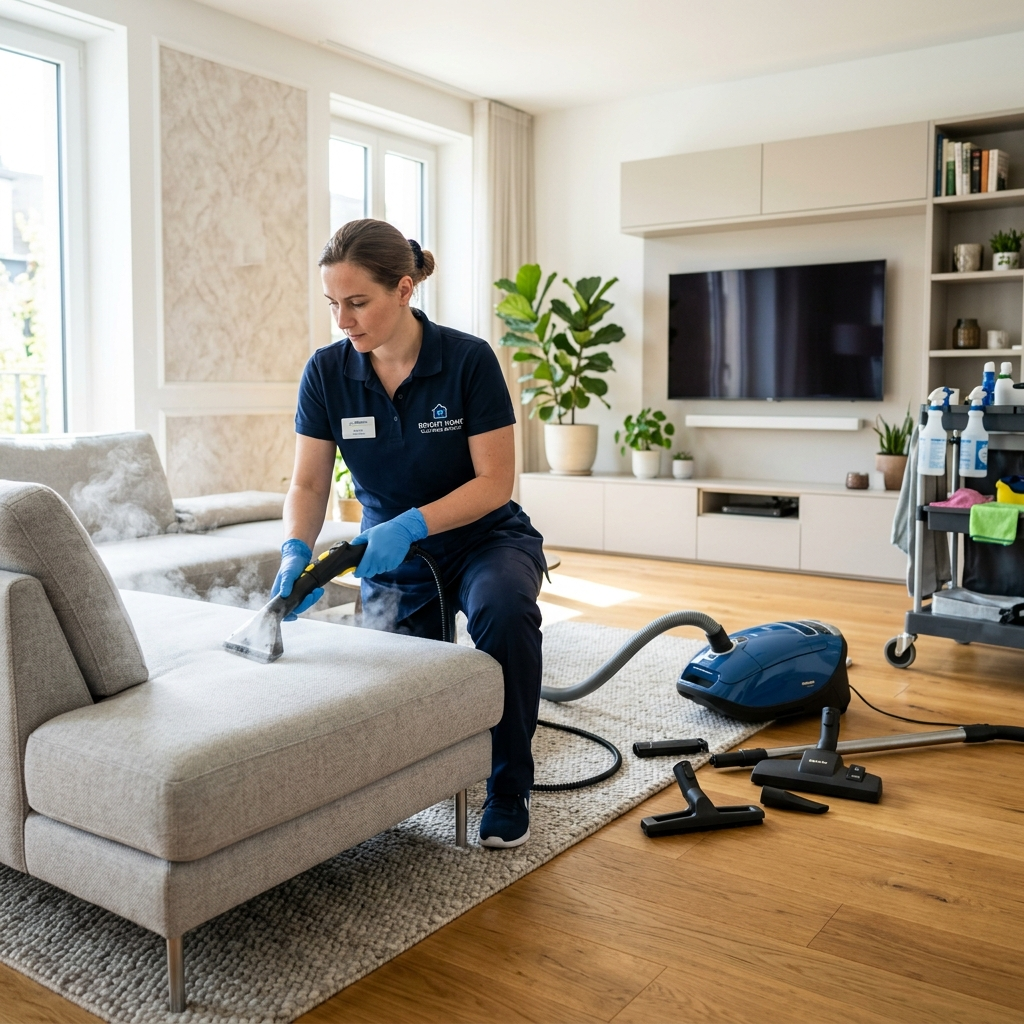
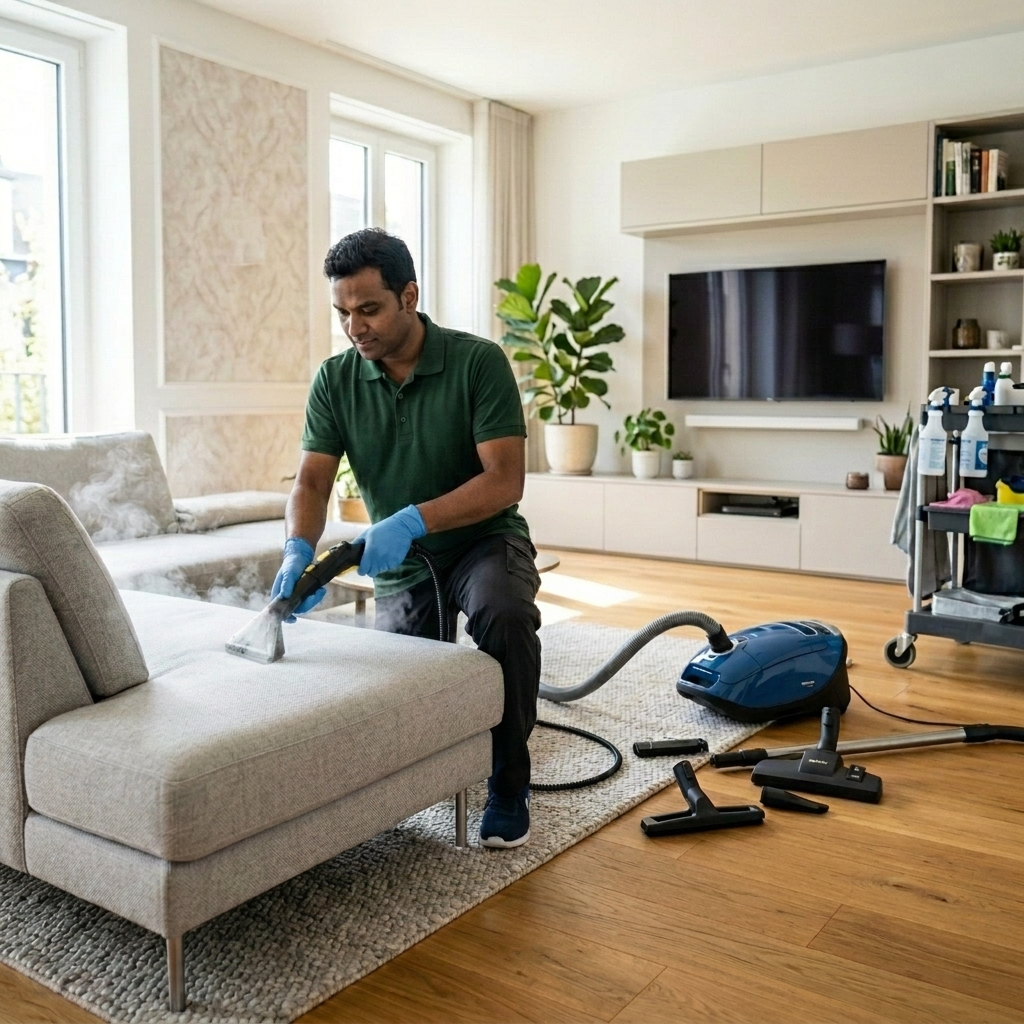
changes seo things for mobile

diff --git a/frontend/public/index.html b/frontend/public/index.html
@@ -48,7 +48,7 @@
         work correctly both with client-side routing and a non-root public URL.
         Learn how to configure a non-root public URL by running `npm run build`.
         -->
-        <title>Workra – House Help in Minutes</title>
+        <title>Workra – House Help at Your Door in Minutes</title>
 
         <!-- Structured Data: WebSite Schema (controls site name in Google) -->
         <script type="application/ld+json">
@@ -56,7 +56,7 @@
           "@context": "https://schema.org",
           "@type": "WebSite",
           "@id": "https://useworkra.com/#website",
-          "name": "Workra",
+          "name": "Workra – House Help at Your Door in Minutes",
           "alternateName": ["Workra", "Workra App", "Workra Patna", "Workra Home Services"],
           "url": "https://useworkra.com/",
           "publisher": {

diff --git a/frontend/src/components/SEO.jsx b/frontend/src/components/SEO.jsx
@@ -58,7 +58,7 @@ export const SEO = ({
 }) => {
   const fullTitle = title
     ? `${title} | Workra`
-    : "Workra – House Help in Minutes";
+    : "Workra – House Help at Your Door in Minutes";
   const canonicalUrl = `${SITE_URL}${path}`;
   const metaDescription =
     description ||